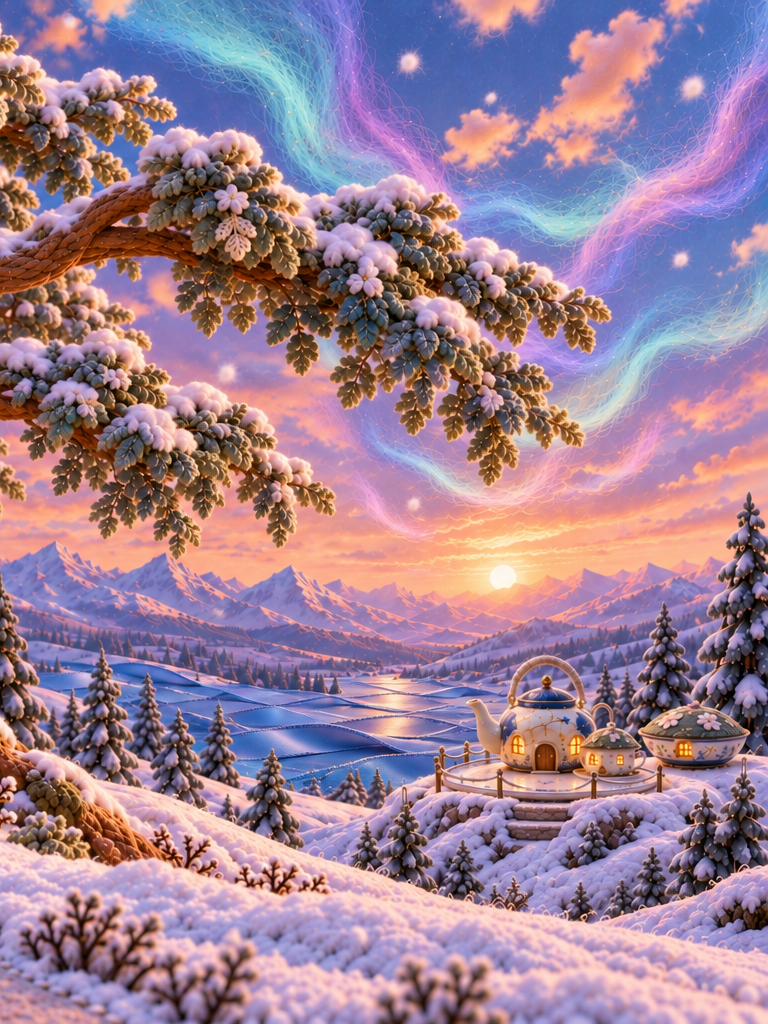
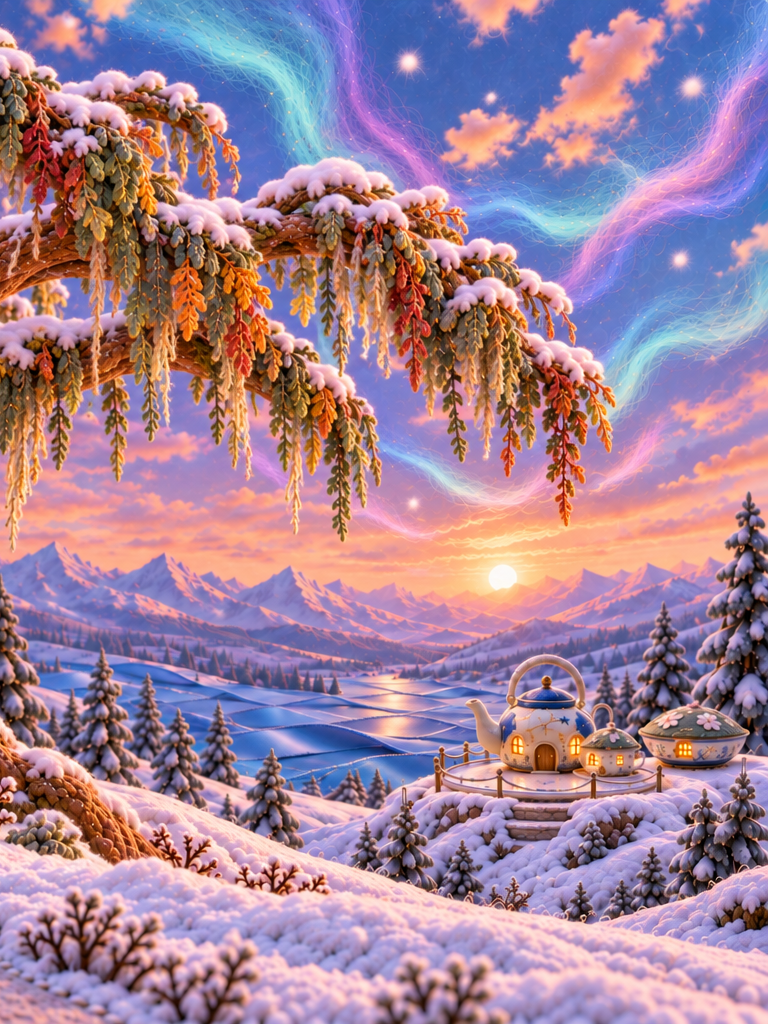
Publish approved willow tree home on Doggy spread 4

diff --git a/feltworld/flipbook/v1/doggy/index.html b/feltworld/flipbook/v1/doggy/index.html
@@ -139,7 +139,7 @@ const coverPath=i=>i===0?'covers/front-cover-volume-i-v1.png?v=dfeb381fd1ac3b':'
 const SHOW_APPROVED_DOGGY_TITLE=true;
 if(SHOW_APPROVED_DOGGY_TITLE)window.FeltPictureDescriptions['00-opening-proof']='The inside front cover on the left is lined with warm, timeworn paper with two faint old tea stains, bearing a softly faded impression of the thread-room shelves, counter and ribbon. The warm cream flyleaf on the right reads Doggy!, with a fine thread flourish above.';
 window.FeltPictureDescriptions['00-closing-proof']='The cream flyleaf on the left reads The End. The inside back cover on the right is lined with warm, timeworn paper with two faint old tea stains, bearing a softly faded impression of the thread-room table, wool and blue-flowered kettle.';
-const path=(i,side)=>scenes[i][0]==='00-opening-proof'&&side==='right'?(SHOW_APPROVED_DOGGY_TITLE?'opening-flyleaf-doggy-title-v2.svg?v=1eea01401263e3':'opening-flyleaf.svg?v=blended-head-20261027'):scenes[i][0]==='00-closing-proof'&&side==='left'?'closing-flyleaf.svg?v=the-end-20261027':scenes[i][0]==='00-opening-proof'&&side==='left'?'opening-lining-thread-room-aged-v3.svg?v=85e40eb529796f':scenes[i][0]==='00-closing-proof'&&side==='right'?'closing-lining-thread-room-aged-v3.svg?v=e831d70b28140a':`${scenes[i][0]}-part-${side==='left'?1:2}-${side}.png`+(scenes[i][0]==="06-tree-fortress-sanctuary"&&side==="left"?'?v=6942a2d08f87e3':scenes[i][0]==="05-tree-fortress-exterior"&&side==="right"?'?v=8eff385bf82d58':scenes[i][0]==="08-jack-search"&&side==="left"?'?v=6c34f8fbb74488':scenes[i][0]==="08-jack-search"&&side==="right"?'?v=35402b758a5431':scenes[i][0]==="12-first-small-kindness"&&side==="left"?'?v=ae78fb0c0429a3':scenes[i][0]==="04-trio-lake"&&side==="left"?'?v=2048e277341482':scenes[i][0]==="14-quiet-journey"&&side==="right"?'?v=41666ef6deea28':scenes[i][0]==="01-woodland-bridge"&&side==="left"?'?v=6006cf17116820':scenes[i][0]==="02-manor-interior"&&side==="right"?'?v=f14f5a43b9fb2c':scenes[i][0]==='09-nomie-search-mansion'&&side==='left'?'?v=d1fe709c4c76b4':scenes[i][0]==='14-quiet-journey'?'?v=restored-ui-20261026':scenes[i][0]==='02-manor-interior'?'?v=restored-ui-20261026':scenes[i][0]==='03-manor-welcome'?'?v=restored-ui-20261026':scenes[i][0]==='01-woodland-bridge'?'?v=restored-ui-20261026':['11-peaceful-tree-home','05-tree-fortress-exterior'].includes(scenes[i][0])?'?v=tree-sequence-20261026':'');
+const path=(i,side)=>scenes[i][0]==='00-opening-proof'&&side==='right'?(SHOW_APPROVED_DOGGY_TITLE?'opening-flyleaf-doggy-title-v2.svg?v=1eea01401263e3':'opening-flyleaf.svg?v=blended-head-20261027'):scenes[i][0]==='00-closing-proof'&&side==='left'?'closing-flyleaf.svg?v=the-end-20261027':scenes[i][0]==='00-opening-proof'&&side==='left'?'opening-lining-thread-room-aged-v3.svg?v=85e40eb529796f':scenes[i][0]==='00-closing-proof'&&side==='right'?'closing-lining-thread-room-aged-v3.svg?v=e831d70b28140a':`${scenes[i][0]}-part-${side==='left'?1:2}-${side}.png`+(scenes[i][0]==="06-tree-fortress-sanctuary"&&side==="left"?'?v=6942a2d08f87e3':scenes[i][0]==="05-tree-fortress-exterior"&&side==="right"?'?v=8eff385bf82d58':scenes[i][0]==="08-jack-search"&&side==="left"?'?v=6c34f8fbb74488':scenes[i][0]==="08-jack-search"&&side==="right"?'?v=35402b758a5431':scenes[i][0]==="12-first-small-kindness"&&side==="left"?'?v=ae78fb0c0429a3':scenes[i][0]==="04-trio-lake"&&side==="left"?'?v=2048e277341482':scenes[i][0]==="14-quiet-journey"&&side==="right"?'?v=41666ef6deea28':scenes[i][0]==="01-woodland-bridge"&&side==="left"?'?v=6006cf17116820':scenes[i][0]==="02-manor-interior"&&side==="right"?'?v=f14f5a43b9fb2c':scenes[i][0]==='09-nomie-search-mansion'&&side==='left'?'?v=d1fe709c4c76b4':scenes[i][0]==='14-quiet-journey'?'?v=restored-ui-20261026':scenes[i][0]==='02-manor-interior'?'?v=restored-ui-20261026':scenes[i][0]==='03-manor-welcome'?'?v=restored-ui-20261026':scenes[i][0]==='01-woodland-bridge'?'?v=restored-ui-20261026':scenes[i][0]==='11-peaceful-tree-home'?'?v=f498b5e83a9cc6':scenes[i][0]==='05-tree-fortress-exterior'?'?v=tree-sequence-20261026':'');
 const img=(i,side)=>{const e=new Image();e.crossOrigin="anonymous";const key=isCover(i)?coverPath(i):path(i,side);e.src=ready.get(key)?.loaded?ready.get(key).image.src:key;e.alt=isCover(i)?(i===0?'A World of Felt. Volume I. By Arthur Whitcombe.':'The worn blue cloth back cover.'):(side==='left'?(window.FeltPictureDescriptions[scenes[i][0]]||scenes[i][1]):'');e.draggable=false;return e};
 const storageKey='felt-story-tape-draft-v2';
 let draftEdits={};
